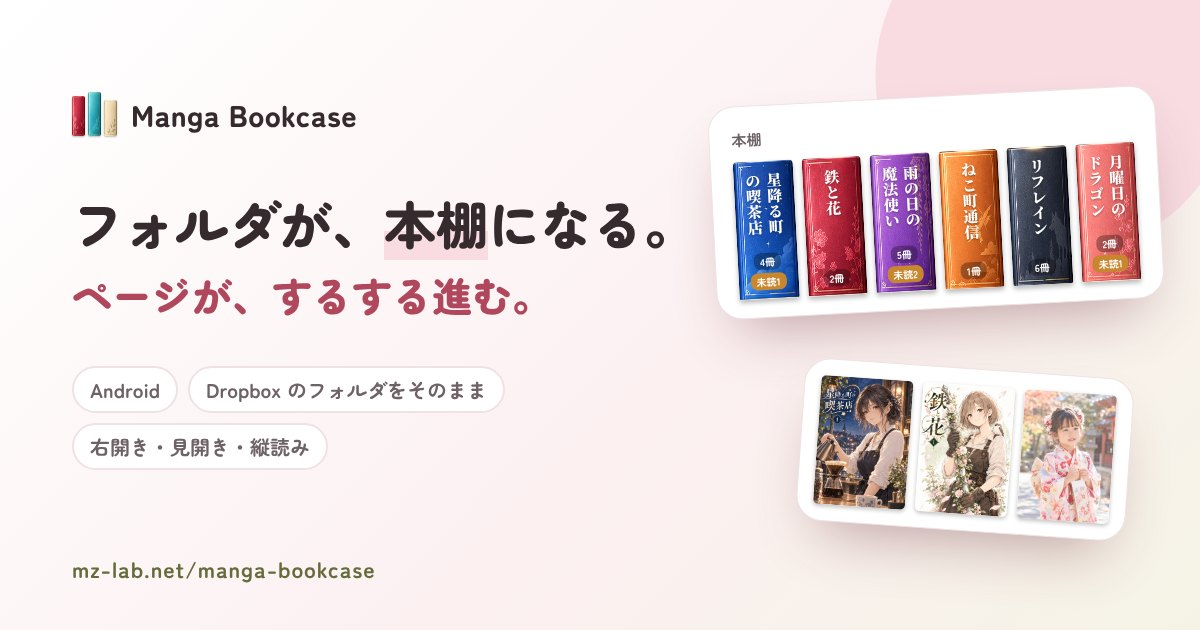
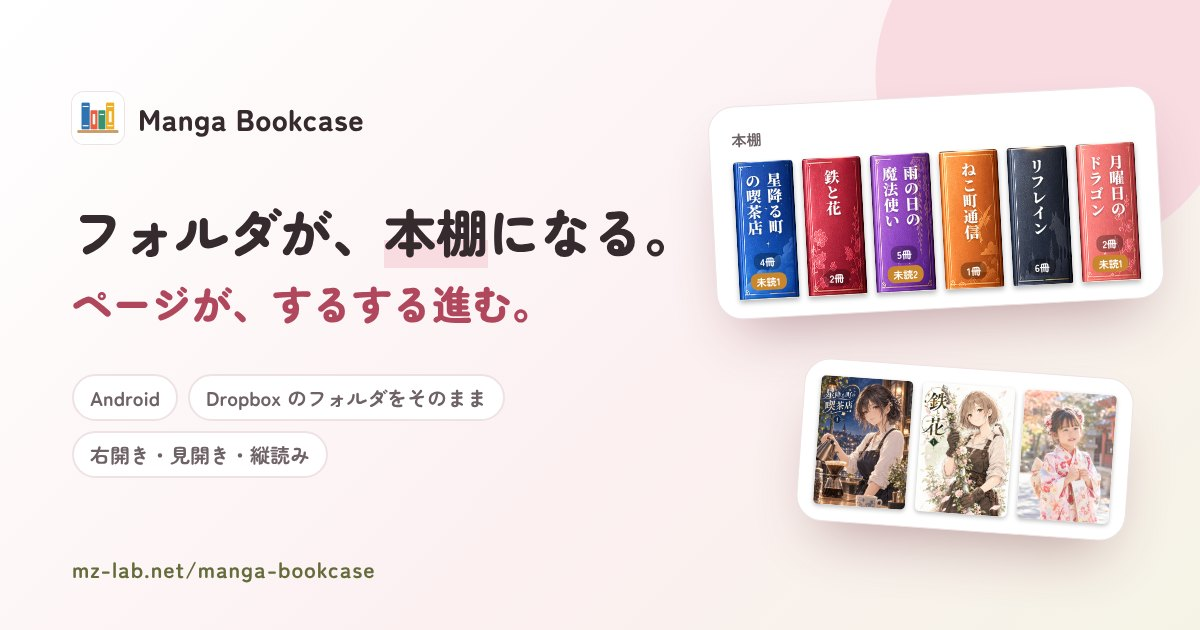
新しいアイコンに差し替え

Changed region(s): [[0.0617, 0.3016, 0.555, 0.5127], [0.0617, 0.573, 0.4008, 0.754], [0.0617, 0.1508, 0.3083, 0.2413]]

diff --git a/manga-bookcase/index.html b/manga-bookcase/index.html
@@ -3,6 +3,8 @@
 <head>
 <meta charset="utf-8">
 <meta name="viewport" content="width=device-width, initial-scale=1">
+<link rel="icon" type="image/png" sizes="32x32" href="/favicon-32.png">
+<link rel="apple-touch-icon" href="/apple-touch-icon.png">
 <title>Manga Bookcase — Dropboxのマンガを、本棚に並べて読む</title>
 <meta name="description" content="Manga Bookcaseは、Dropboxに入れたマンガや画像のフォルダを背表紙の並ぶ本棚に整理して、右開き・左開き・縦読み・見開きで快適に読めるAndroidアプリです。">
 <meta property="og:title" content="Manga Bookcase — フォルダが、本棚になる。">
@@ -58,8 +60,7 @@ section{padding:96px 0}
 .site-header{position:sticky;top:0;z-index:30;background:rgba(255,255,255,.92);backdrop-filter:blur(8px);border-bottom:1px solid var(--line)}
 .site-header .wrap{height:64px;display:flex;align-items:center;justify-content:space-between;gap:16px}
 .brand{display:flex;align-items:center;gap:10px;text-decoration:none;font-weight:900;font-size:18px}
-.brand-mark{width:30px;height:30px;border-radius:8px;overflow:hidden;display:flex;gap:2px;padding:5px 6px;background:var(--deep)}
-.brand-mark i{flex:1;border-radius:1px;background-size:100% 100%}
+.brand-mark{width:30px;height:30px;border-radius:8px;display:block;box-shadow:0 0 0 1px var(--line)}
 .nav{display:flex;gap:24px;font-size:14px}
 .nav a{text-decoration:none;color:var(--ink-soft)}
 .nav a:hover{color:var(--accent)}
@@ -357,7 +358,7 @@ footer a:hover{text-decoration:underline}
 
 <header class="site-header">
   <div class="wrap">
-    <a class="brand" href="#top"><span class="brand-mark" aria-hidden="true"><i style="background-image:url(img/spines/se001.jpg)"></i><i style="background-image:url(img/spines/se002.jpg)"></i><i style="background-image:url(img/spines/se005.jpg)"></i></span>Manga Bookcase</a>
+    <a class="brand" href="#top"><img class="brand-mark" src="../icon-192.png" alt="" width="30" height="30">Manga Bookcase</a>
     <nav class="nav" aria-label="ページ内リンク">
       <a href="#shelf">本棚</a>
       <a href="#viewer">ビューアー</a>

diff --git a/index.html b/index.html
@@ -3,6 +3,8 @@
 <head>
 <meta charset="utf-8">
 <meta name="viewport" content="width=device-width, initial-scale=1">
+<link rel="icon" type="image/png" sizes="32x32" href="/favicon-32.png">
+<link rel="apple-touch-icon" href="/apple-touch-icon.png">
 <title>MZ lab</title>
 <meta name="description" content="MZ lab - Android app developer / Androidアプリ開発">
 <link rel="preconnect" href="https://fonts.googleapis.com">
@@ -25,6 +27,8 @@
   .en { color: var(--sub); font-size: .95rem; }
   .card { border: 1px solid var(--line); border-radius: 8px; padding: 16px; }
   .card h3 a { color: inherit; text-decoration: none; }
+  .app-title { display: flex; align-items: center; gap: 12px; margin-bottom: 8px; }
+  .app-title img { border-radius: 10px; box-shadow: 0 0 0 1px var(--line); }
   .card h3 a:hover { text-decoration: underline; }
   .links { display: flex; flex-wrap: wrap; gap: 8px 20px; margin-top: 12px; }
   a { color: var(--accent); }
@@ -38,7 +42,7 @@
 
   <h2>アプリ / Apps</h2>
   <div class="card">
-    <h3><a href="manga-bookcase/">Manga Bookcase</a></h3>
+    <h3 class="app-title"><img src="icon-192.png" alt="" width="40" height="40"><a href="manga-bookcase/">Manga Bookcase</a></h3>
     <p>Dropboxに保存した画像フォルダを、本棚のように整理して表示・閲覧できるビューアーアプリです。</p>
     <p class="en">A viewer app that organizes the image folders in your Dropbox like a bookshelf.</p>
     <p class="links">

diff --git a/manga-bookcase/privacy.html b/manga-bookcase/privacy.html
@@ -3,6 +3,8 @@
 <head>
 <meta charset="utf-8">
 <meta name="viewport" content="width=device-width, initial-scale=1">
+<link rel="icon" type="image/png" sizes="32x32" href="/favicon-32.png">
+<link rel="apple-touch-icon" href="/apple-touch-icon.png">
 <title>Manga Bookcase プライバシーポリシー / Privacy Policy</title>
 <link rel="preconnect" href="https://fonts.googleapis.com">
 <link rel="preconnect" href="https://fonts.gstatic.com" crossorigin>
